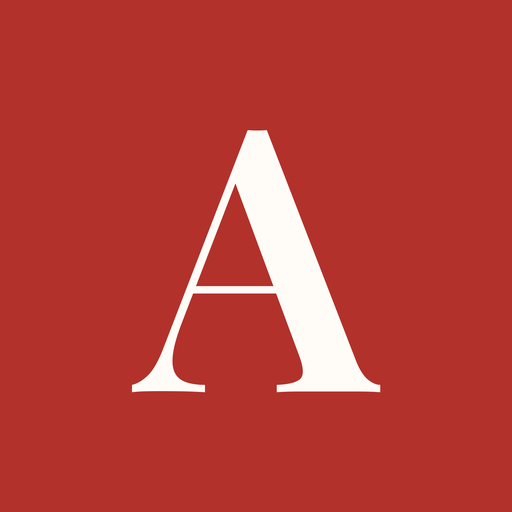
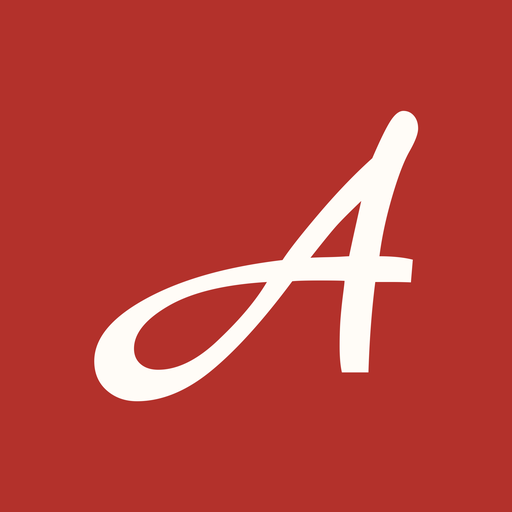
Солярий в услугах, форме и обработчике; иконка сайта и превью шрифтом вывески
Claude-Session: https://claude.ai/code/session_011Sf2RCcPbk5A47KZUobpWn

Changed region(s): [[0.1562, 0.2188, 0.8125, 0.8125]]

diff --git a/site/index.html b/site/index.html
@@ -4,7 +4,7 @@
 <meta charset="utf-8">
 <meta name="viewport" content="width=device-width, initial-scale=1, viewport-fit=cover">
 <title>Салон красоты «Ангелина» в Королёве: стрижки, маникюр, тату</title>
-<meta name="description" content="Стрижки для женщин и мужчин, маникюр, педикюр, эпиляция, массаж, тату и пирсинг в Королёве (Болшево). Удобная онлайн-запись к мастеру.">
+<meta name="description" content="Стрижки для женщин и мужчин, маникюр, педикюр, эпиляция, массаж, солярий, тату и пирсинг в Королёве (Болшево). Удобная онлайн-запись к мастеру.">
 <script type="application/ld+json">
 {"@context":"https://schema.org","@type":"BeautySalon","name":"Салон красоты «Ангелина»",
  "url":"https://aperevedencev-glitch.github.io/angelina/","image":"https://aperevedencev-glitch.github.io/angelina/img/og-image.jpg",
@@ -419,6 +419,14 @@ footer{padding-bottom:calc(32px + env(safe-area-inset-bottom,0px))}
 }
 @media (max-width:400px){ .bar{gap:8px} .bar .btn{padding:0 14px} .logo{font-size:21px} }
 .card .btn-card,.dcard .btn-card{margin-top:auto}
+/* Широкая карточка «Несколько услуг» под сеткой */
+.card.wide{grid-column:1/-1;flex-direction:row;align-items:center;gap:24px}
+.card.wide .ico{flex:none}
+.card.wide h3{flex:0 0 auto}
+.card.wide p{flex:1 1 auto;margin:0}
+.card.wide .btn-card{margin-top:0;align-self:center;flex:none}
+@media (max-width:980px){.card.wide{flex-direction:column;align-items:flex-start;gap:16px}.card.wide .btn-card{align-self:flex-start}}
+
 /* Логотип как на вывеске: красная каллиграфия */
 :root{--logo:#B3312B}
 @media (prefers-color-scheme:dark){:root:not([data-theme="light"]){--logo:#E8625A}}
@@ -511,13 +519,13 @@ footer a{color:inherit;text-underline-offset:3px;display:inline-flex;align-items
       <div>
         <span class="eyebrow">Салон красоты · для неё и для него</span>
         <h1>Стрижка, маникюр и тату в одном месте и у одних мастеров</h1>
-        <p class="lead">Женские и мужские стрижки, ногтевой сервис, эпиляция, массаж, а в соседнем кабинете — тату и пирсинг. Приходите на одну услугу или соберите визит из нескольких.</p>
+        <p class="lead">Женские и мужские стрижки, маникюр и педикюр, эпиляция, массаж, солярий, тату и пирсинг. Приходите на одну услугу или соберите визит из нескольких.</p>
         <div class="actions">
           <a class="btn btn-main" href="#book">Записаться онлайн</a>
           <a class="btn btn-line" href="#services">Посмотреть услуги</a>
         </div>
         <div class="facts">
-          <div><b>7</b>направлений</div>
+          <div><b>8</b>направлений</div>
           <div><b>20 лет</b>работы салона</div>
           <div><b>1 визит</b>на несколько услуг</div>
         </div>
@@ -558,7 +566,7 @@ footer a{color:inherit;text-underline-offset:3px;display:inline-flex;align-items
           <div class="ico" aria-hidden="true"><svg viewBox="0 0 24 24"><path d="M4 20h16M6 20V9l6-5 6 5v11M10 20v-6h4v6"/></svg></div>
           <h3>Мужские стрижки</h3>
           <p>Мужские стрижки от классики до коротких современных форм.</p>
-          <a class="btn btn-card" href="#book" data-service="Мужская стрижка">Записаться на мужскую стрижку</a>
+          <a class="btn btn-card" href="#book" data-service="Мужская стрижка" aria-label="Записаться на стрижку (мужская)">Записаться на стрижку</a>
         </article>
         <article class="card">
           <div class="ico" aria-hidden="true"><svg viewBox="0 0 24 24"><path d="M9 21V10a3 3 0 0 1 6 0v11M9 14h6"/></svg></div>
@@ -579,6 +587,12 @@ footer a{color:inherit;text-underline-offset:3px;display:inline-flex;align-items
           <a class="btn btn-card" href="#book" data-service="Массаж">Записаться на массаж</a>
         </article>
         <article class="card">
+          <div class="ico" aria-hidden="true"><svg viewBox="0 0 24 24"><circle cx="12" cy="12" r="4"/><path d="M12 2.5v2.5M12 19v2.5M2.5 12H5M19 12h2.5M5.3 5.3l1.8 1.8M16.9 16.9l1.8 1.8M5.3 18.7l1.8-1.8M16.9 7.1l1.8-1.8"/></svg></div>
+          <h3>Солярий</h3>
+          <p>Ровный загар в любое время года. Загорать выгоднее по абонементу: условия подскажет администратор.</p>
+          <a class="btn btn-card" href="#book" data-service="Солярий">Записаться в солярий</a>
+        </article>
+        <article class="card wide">
           <div class="ico" aria-hidden="true"><svg viewBox="0 0 24 24"><path d="M5 12h14M12 5l7 7-7 7"/></svg></div>
           <h3>Несколько услуг за визит</h3>
           <p>Хотите стрижку и маникюр за один визит? Напишите об этом в заявке, и администратор подберёт время.</p>
@@ -683,7 +697,7 @@ footer a{color:inherit;text-underline-offset:3px;display:inline-flex;align-items
         <div class="field"><label for="f-service">Услуга</label>
           <select id="f-service" name="service">
             <option>Женская стрижка</option><option>Мужская стрижка</option><option>Маникюр</option><option>Педикюр</option>
-            <option>Эпиляция</option><option>Массаж</option><option>Татуировка</option><option>Пирсинг</option><option>Несколько услуг</option>
+            <option>Эпиляция</option><option>Массаж</option><option>Солярий</option><option>Татуировка</option><option>Пирсинг</option><option>Несколько услуг</option>
           </select></div>
         <div class="field"><label for="f-date">Желаемая дата</label><input id="f-date" name="date" type="date"></div>
         <label class="agree" for="f-agree"><input id="f-agree" type="checkbox" aria-required="true"> Согласен на обработку персональных данных для ответа на заявку</label>
@@ -742,7 +756,7 @@ footer a{color:inherit;text-underline-offset:3px;display:inline-flex;align-items
       <div class="stats">
         <div class="stat"><span class="num"><span class="count" data-to="20">20</span><small>лет</small></span><p>работы салона</p></div>
         <div class="stat"><span class="num"><span class="count" data-to="25000" data-sep="1">25 000</span><small>+</small></span><p>визитов за всё время работы салона</p></div>
-        <div class="stat"><span class="num"><span class="count" data-to="7">7</span></span><p>направлений: от стрижки и маникюра до тату и пирсинга</p></div>
+        <div class="stat"><span class="num"><span class="count" data-to="8">8</span></span><p>направлений: от стрижки и маникюра до солярия, тату и пирсинга</p></div>
       </div>
     </div>
   </section>
@@ -1149,7 +1163,7 @@ form.addEventListener('submit', async e => {
   // Заголовок и описание вкладки меняются вместе со страницей.
   const META = {
     home: { t: 'Салон красоты «Ангелина» в Королёве: стрижки, маникюр, тату',
-            d: 'Стрижки для женщин и мужчин, маникюр, педикюр, эпиляция, массаж, тату и пирсинг в Королёве (Болшево). Удобная онлайн-запись к мастеру.' },
+            d: 'Стрижки для женщин и мужчин, маникюр, педикюр, эпиляция, массаж, солярий, тату и пирсинг в Королёве (Болшево). Удобная онлайн-запись к мастеру.' },
     about: { t: 'О салоне красоты «Ангелина»: мастера и подход',
              d: 'Салон «Ангелина»: мастера, к которым возвращаются годами. Честные цены, стерильность и домашняя атмосфера. Познакомьтесь с командой.' },
     profile: { t: 'Личный кабинет гостя салона красоты «Ангелина»',

diff --git a/worker/src/index.js b/worker/src/index.js
@@ -3,11 +3,11 @@
 //   TELEGRAM_TOKEN   — токен бота от @BotFather
 //   TELEGRAM_CHAT_ID — chat_id администратора или рабочего чата
 // Переменная в wrangler.toml:
-//   ALLOWED_ORIGIN   — адрес сайта, например https://angelina-salon.pages.dev
+//   ALLOWED_ORIGIN   — адрес сайта, например https://aperevedencev-glitch.github.io
 
 const SERVICES = [
   "Женская стрижка", "Мужская стрижка", "Маникюр", "Педикюр", "Эпиляция",
-  "Массаж", "Татуировка", "Пирсинг", "Несколько услуг",
+  "Массаж", "Солярий", "Татуировка", "Пирсинг", "Несколько услуг",
 ];
 
 export default {
